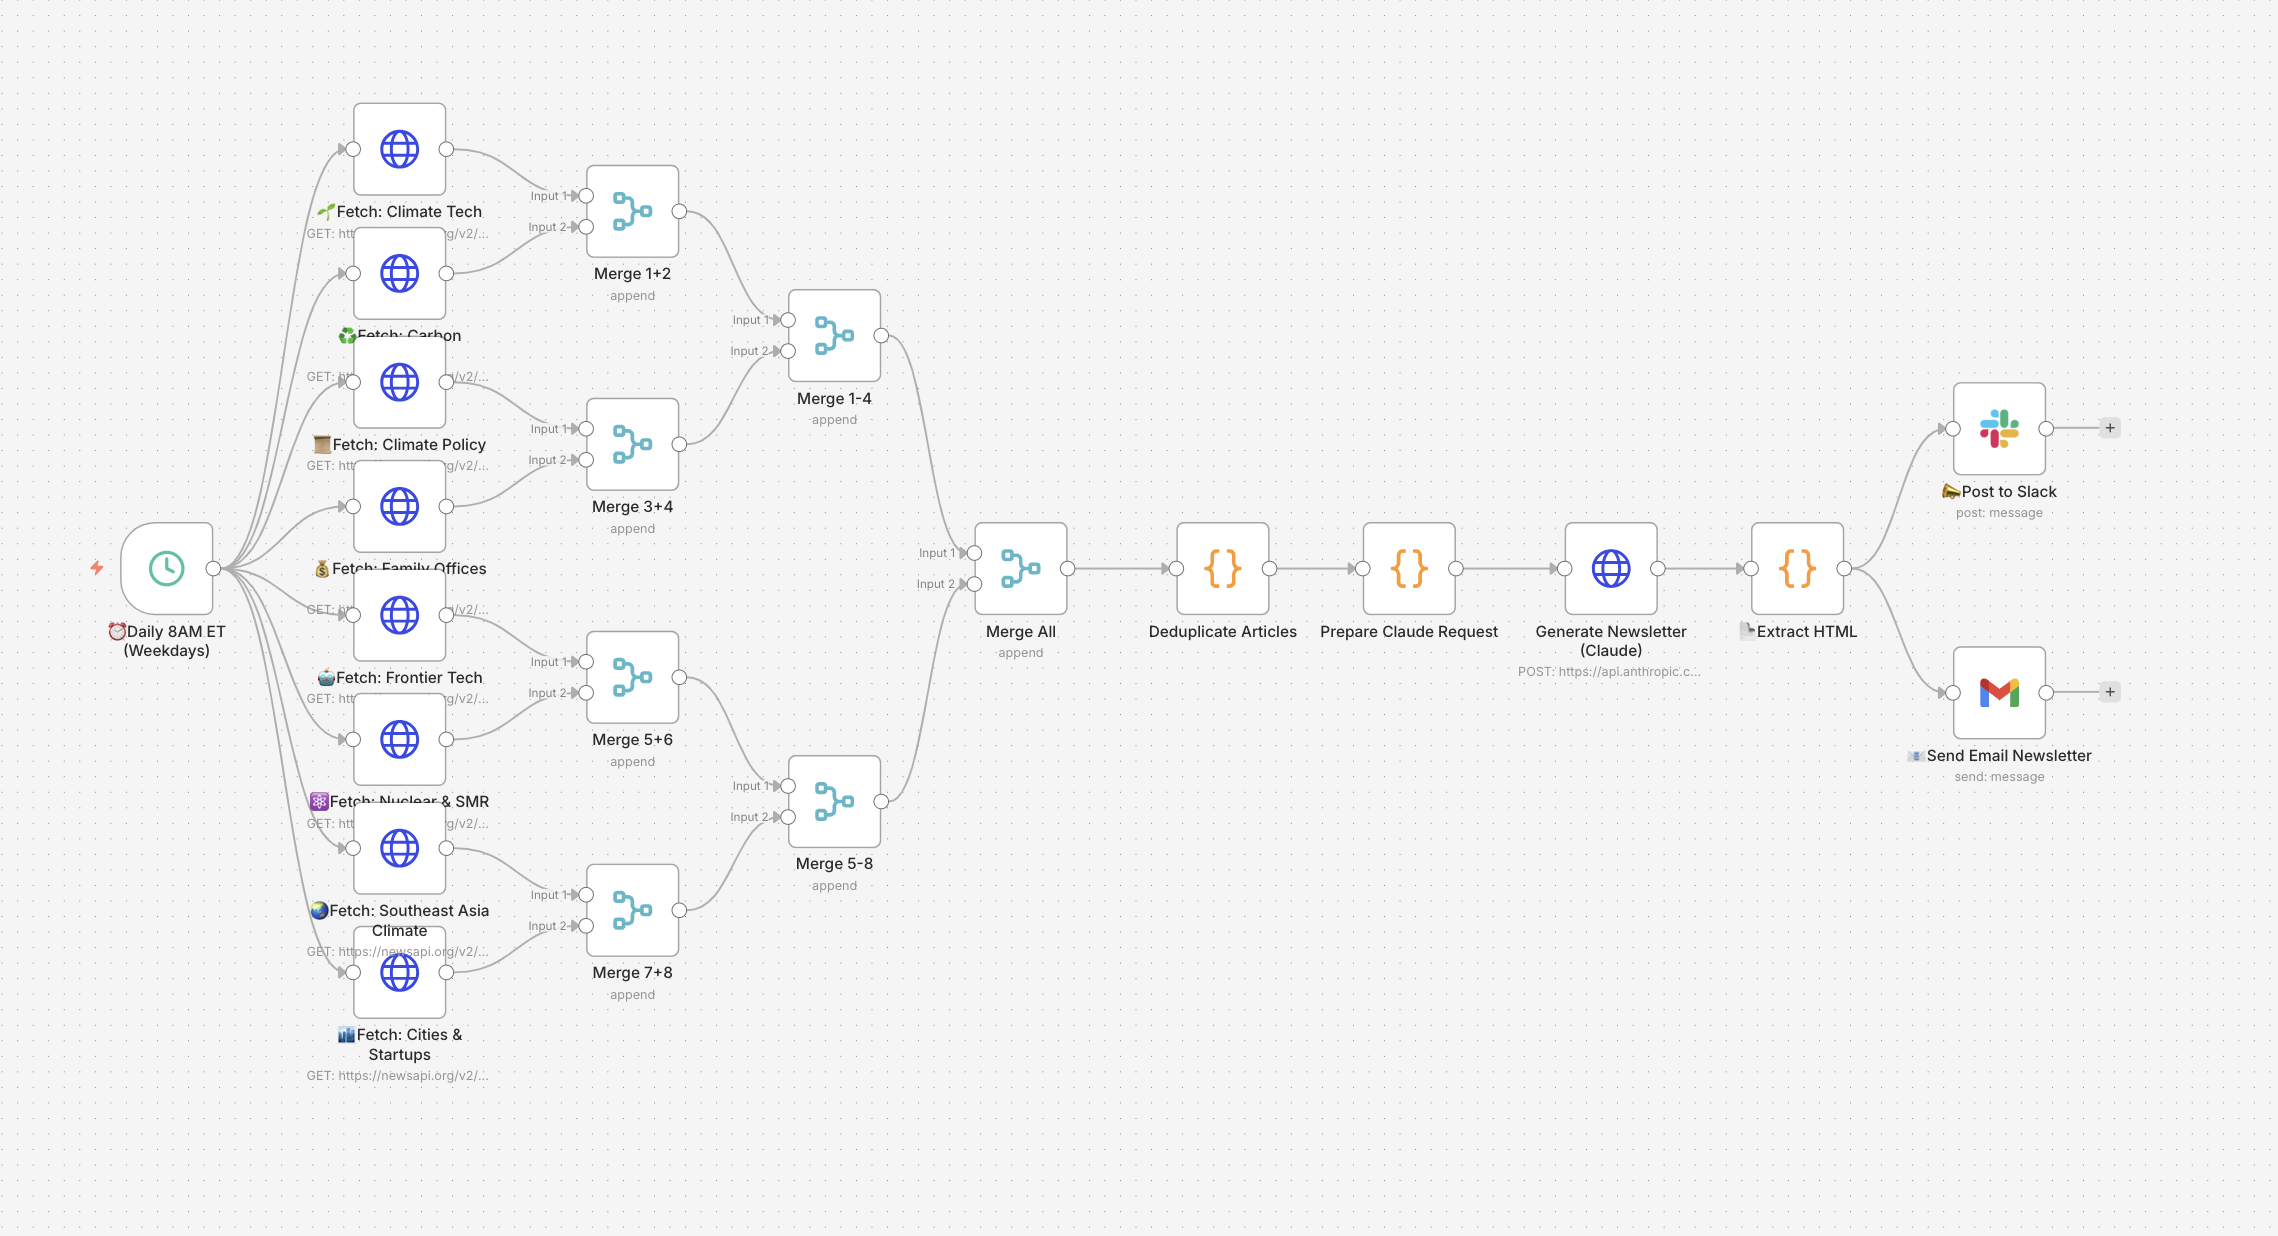
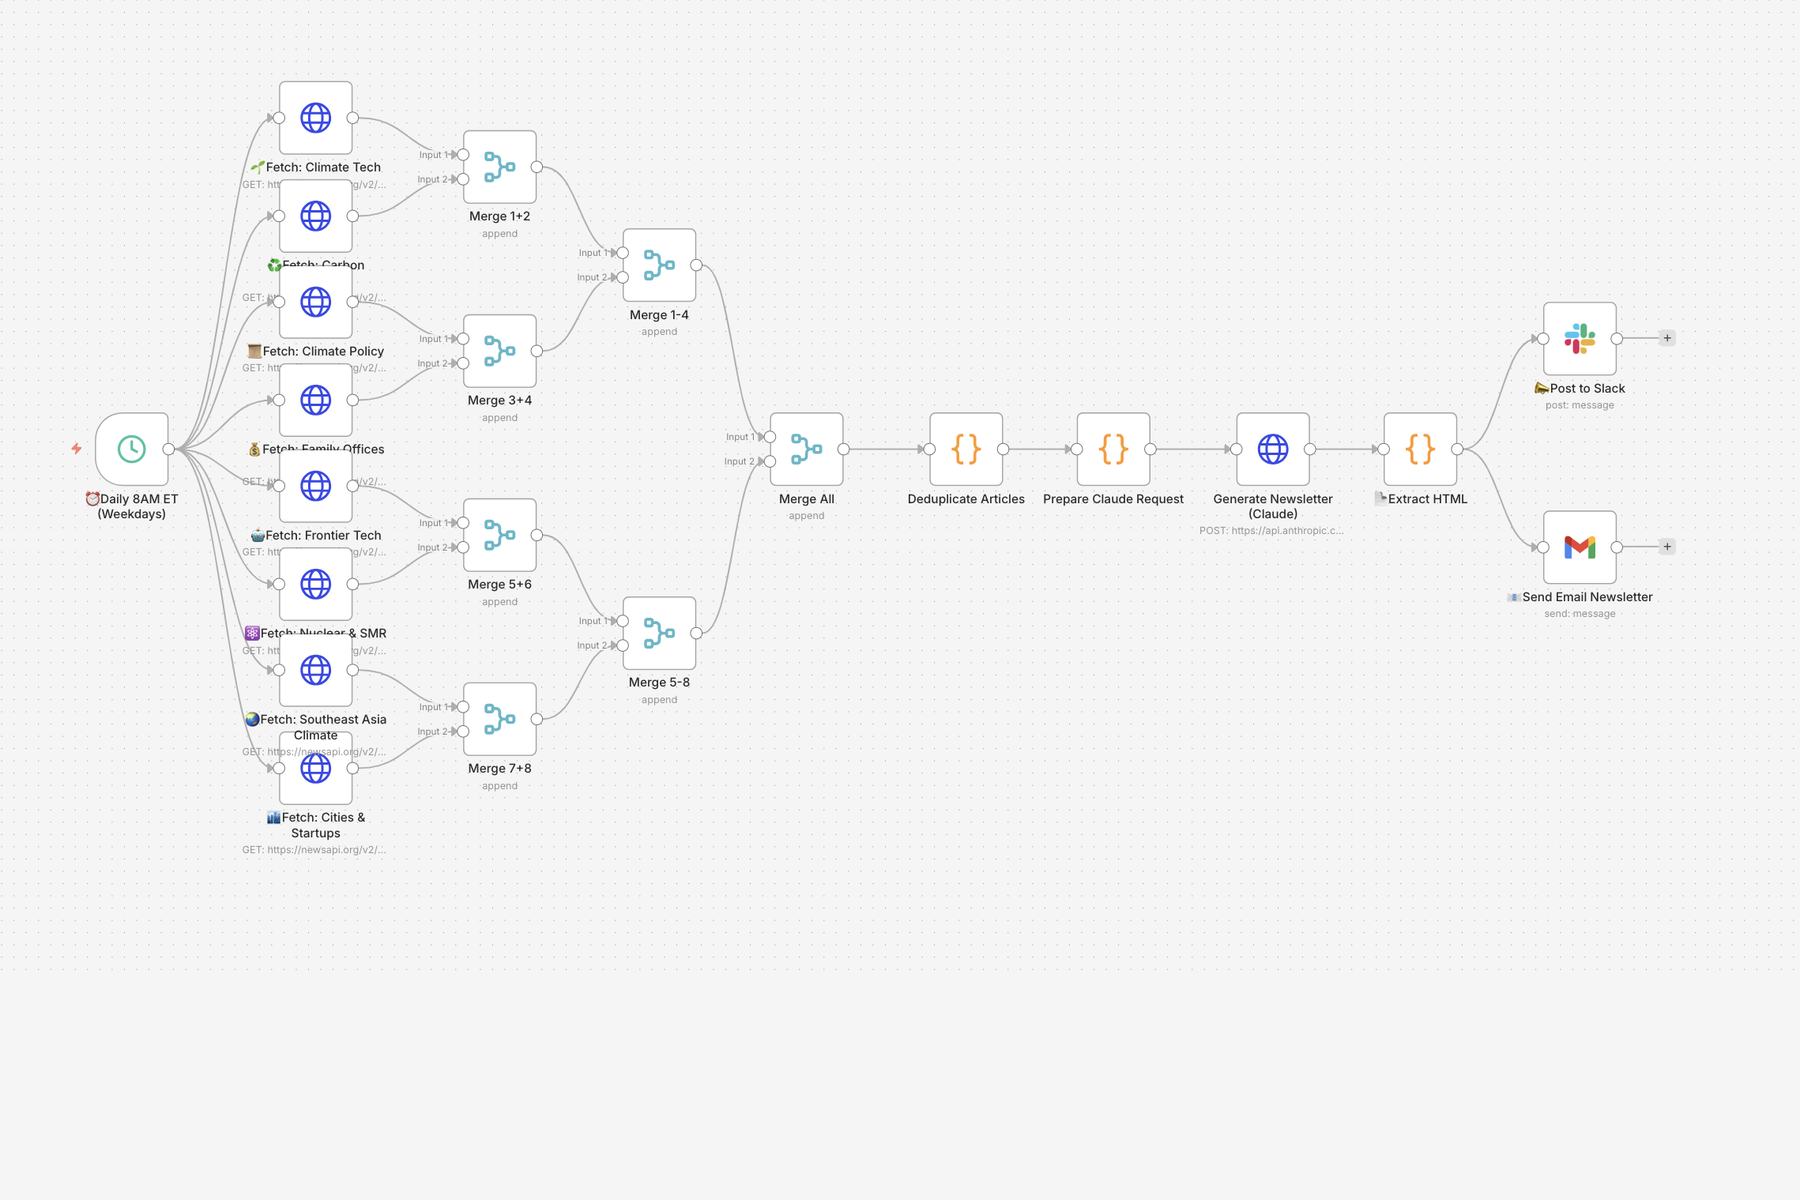
Remove color tint from remaining 3 project covers, pad screenshots to 3:2

diff --git a/index.html b/index.html
@@ -2219,7 +2219,7 @@ ReactDOM.createRoot(document.getElementById('experience-timeline-root')).render(
   const PROJECTS = [
     { tag: 'AI / NLP', name: 'Climate Finance Research Agent',
       desc: 'LLM-powered agent for climate finance research. Tavily search, Claude Sonnet, Chroma Cloud vector DB with Streamlit interface.',
-      tech: ['Python', 'Claude API', 'Chroma', 'Streamlit'], thumb: 'Climate Finance Research Agent.png',
+      tech: ['Python', 'Claude API', 'Chroma', 'Streamlit'], thumb: 'Climate Finance Research Agent.png', rawThumb: true,
       cta: { label: 'View Live Demo', href: 'https://climate-finance-agent-3si7owfgvopjqrgcqc9wg8.streamlit.app/' } },
     { tag: 'Full-Stack / CRM', name: 'Meridian - Relationship Intelligence CRM',
       desc: 'Relationship-intelligence CRM built for a venture coalition\'s investor-relations team. Eight views spanning contact management, investor↔founder matching, intro-path tracking, an outreach queue, and two D3 force-directed graphs for the network and capital map. Public demo runs on fully fictional data.',
@@ -2234,11 +2234,11 @@ ReactDOM.createRoot(document.getElementById('experience-timeline-root')).render(
       tech: ['Python', 'FAISS', 'HuggingFace', 'AWS'], thumb: '3.png', rawThumb: true },
     { tag: 'Energy & Health', name: 'The Changing Landscape of U.S. Power Generation',
       desc: 'Long-form policy analysis paired with an interactive county-level dashboard combining EIA, EPA eGRID, and CDC PLACES data for the energy-health nexus.',
-      tech: ['R', 'Posit', 'EIA API', 'eGRID'], thumb: 'US energy & health.jpeg', theme: 'healthcare',
+      tech: ['R', 'Posit', 'EIA API', 'eGRID'], thumb: 'US energy & health.jpeg', theme: 'healthcare', rawThumb: true,
       cta: { label: 'View Live Dashboard', href: 'https://xindili-pa-electric-station.share.connect.posit.cloud/' } },
     { tag: 'Automation', name: 'Climate Deal Intelligence System',
       desc: 'Automated deal intelligence pipeline using n8n, SEC EDGAR API, and NewsAPI for climate / energy deSPAC monitoring.',
-      tech: ['n8n', 'PostgreSQL', 'EDGAR', 'NewsAPI'], thumb: '2.png' },
+      tech: ['n8n', 'PostgreSQL', 'EDGAR', 'NewsAPI'], thumb: '2.png', rawThumb: true },
     { tag: 'Web Design & Dev', name: 'Fusion Park - Corporate Website',
       desc: 'End-to-end design and build of the corporate site for a climate, energy and hard-tech financial advisory firm. Scroll-driven 3D interactions across services, investment focus, team and contact sections.',
       tech: ['React', 'Vite', 'GSAP', 'Netlify'], thumb: 'fusionpark-hero.jpg', rawThumb: true,
